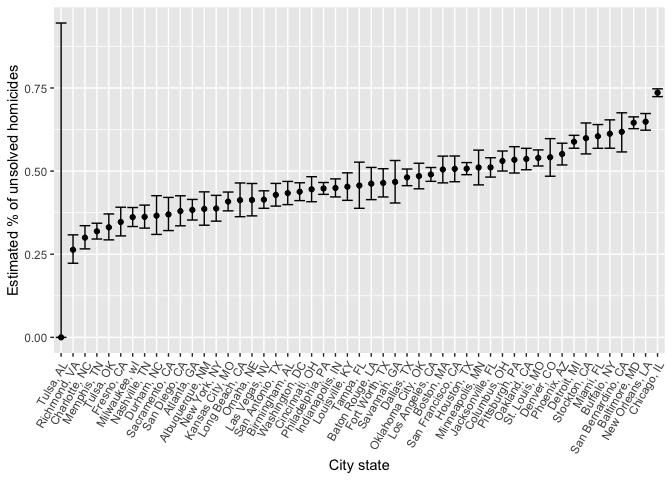
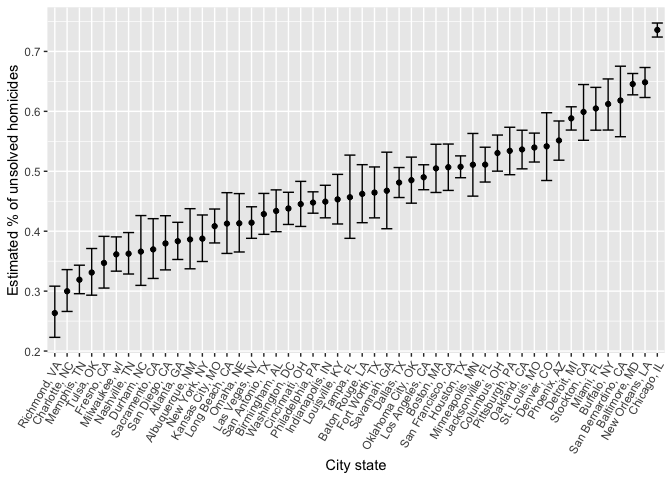
update plot in p2

diff --git a/p8105_hw5_yw4005.md b/p8105_hw5_yw4005.md
@@ -188,8 +188,12 @@ prop_test_results <- map2(
 ``` r
 prop_test_results <- homicide_summary %>%
   mutate(results = prop_test_results) %>%
-  unnest(results)
+  unnest(results) %>%
+  filter(city_state != "Tulsa, AL")
 ```
+
+Take out Tulsa, AL because there was no unsolved homicides. So the
+numerator of the ratio is 0.
 
 ``` r
 head(prop_test_results) %>%
